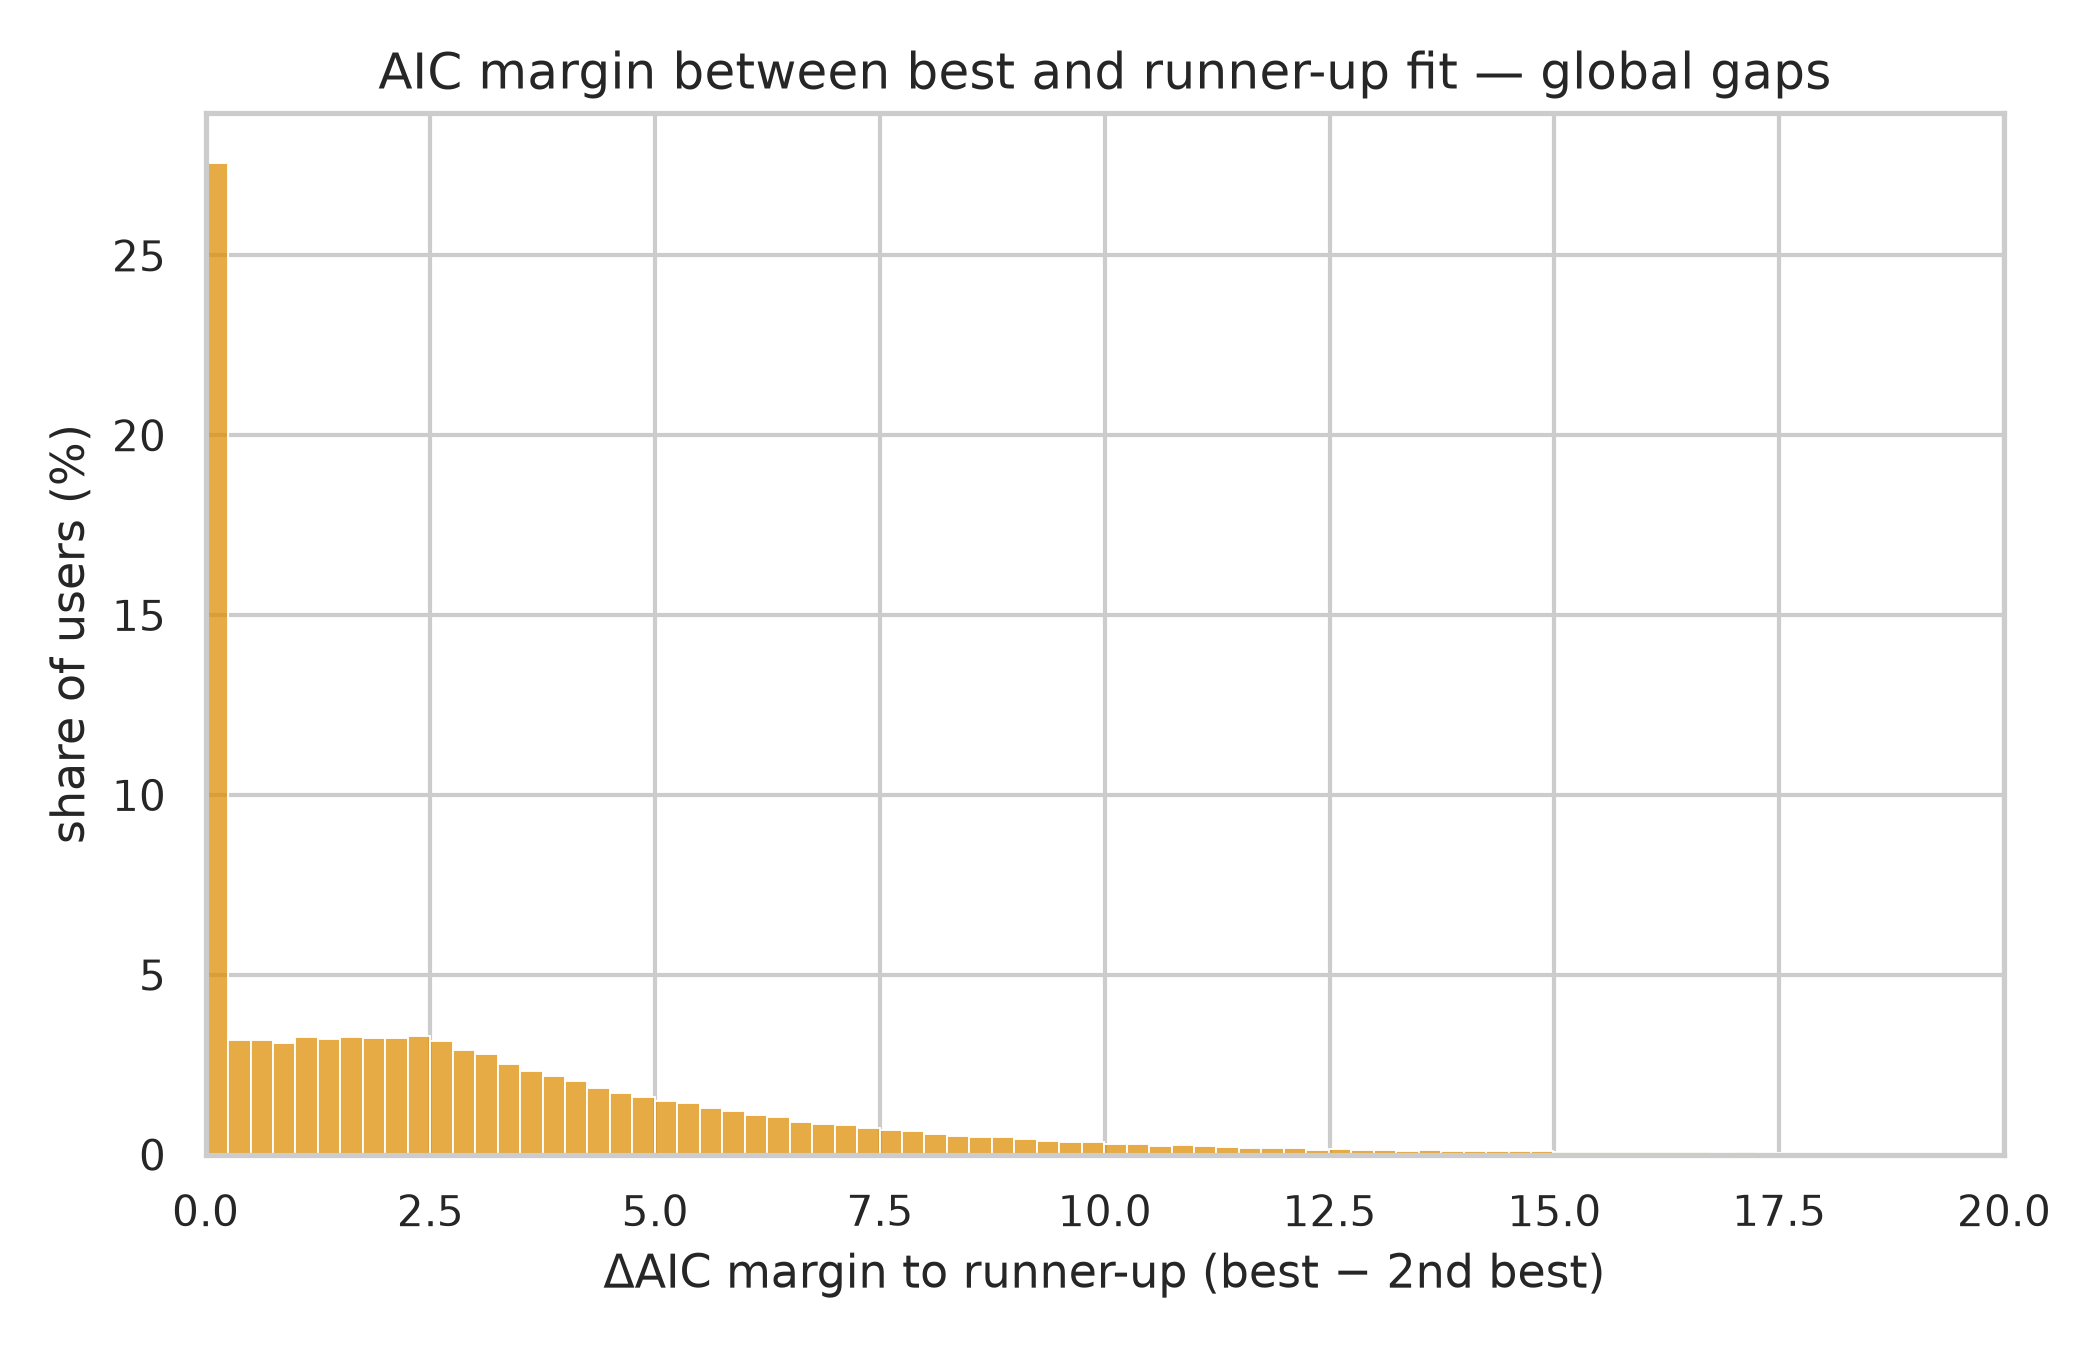
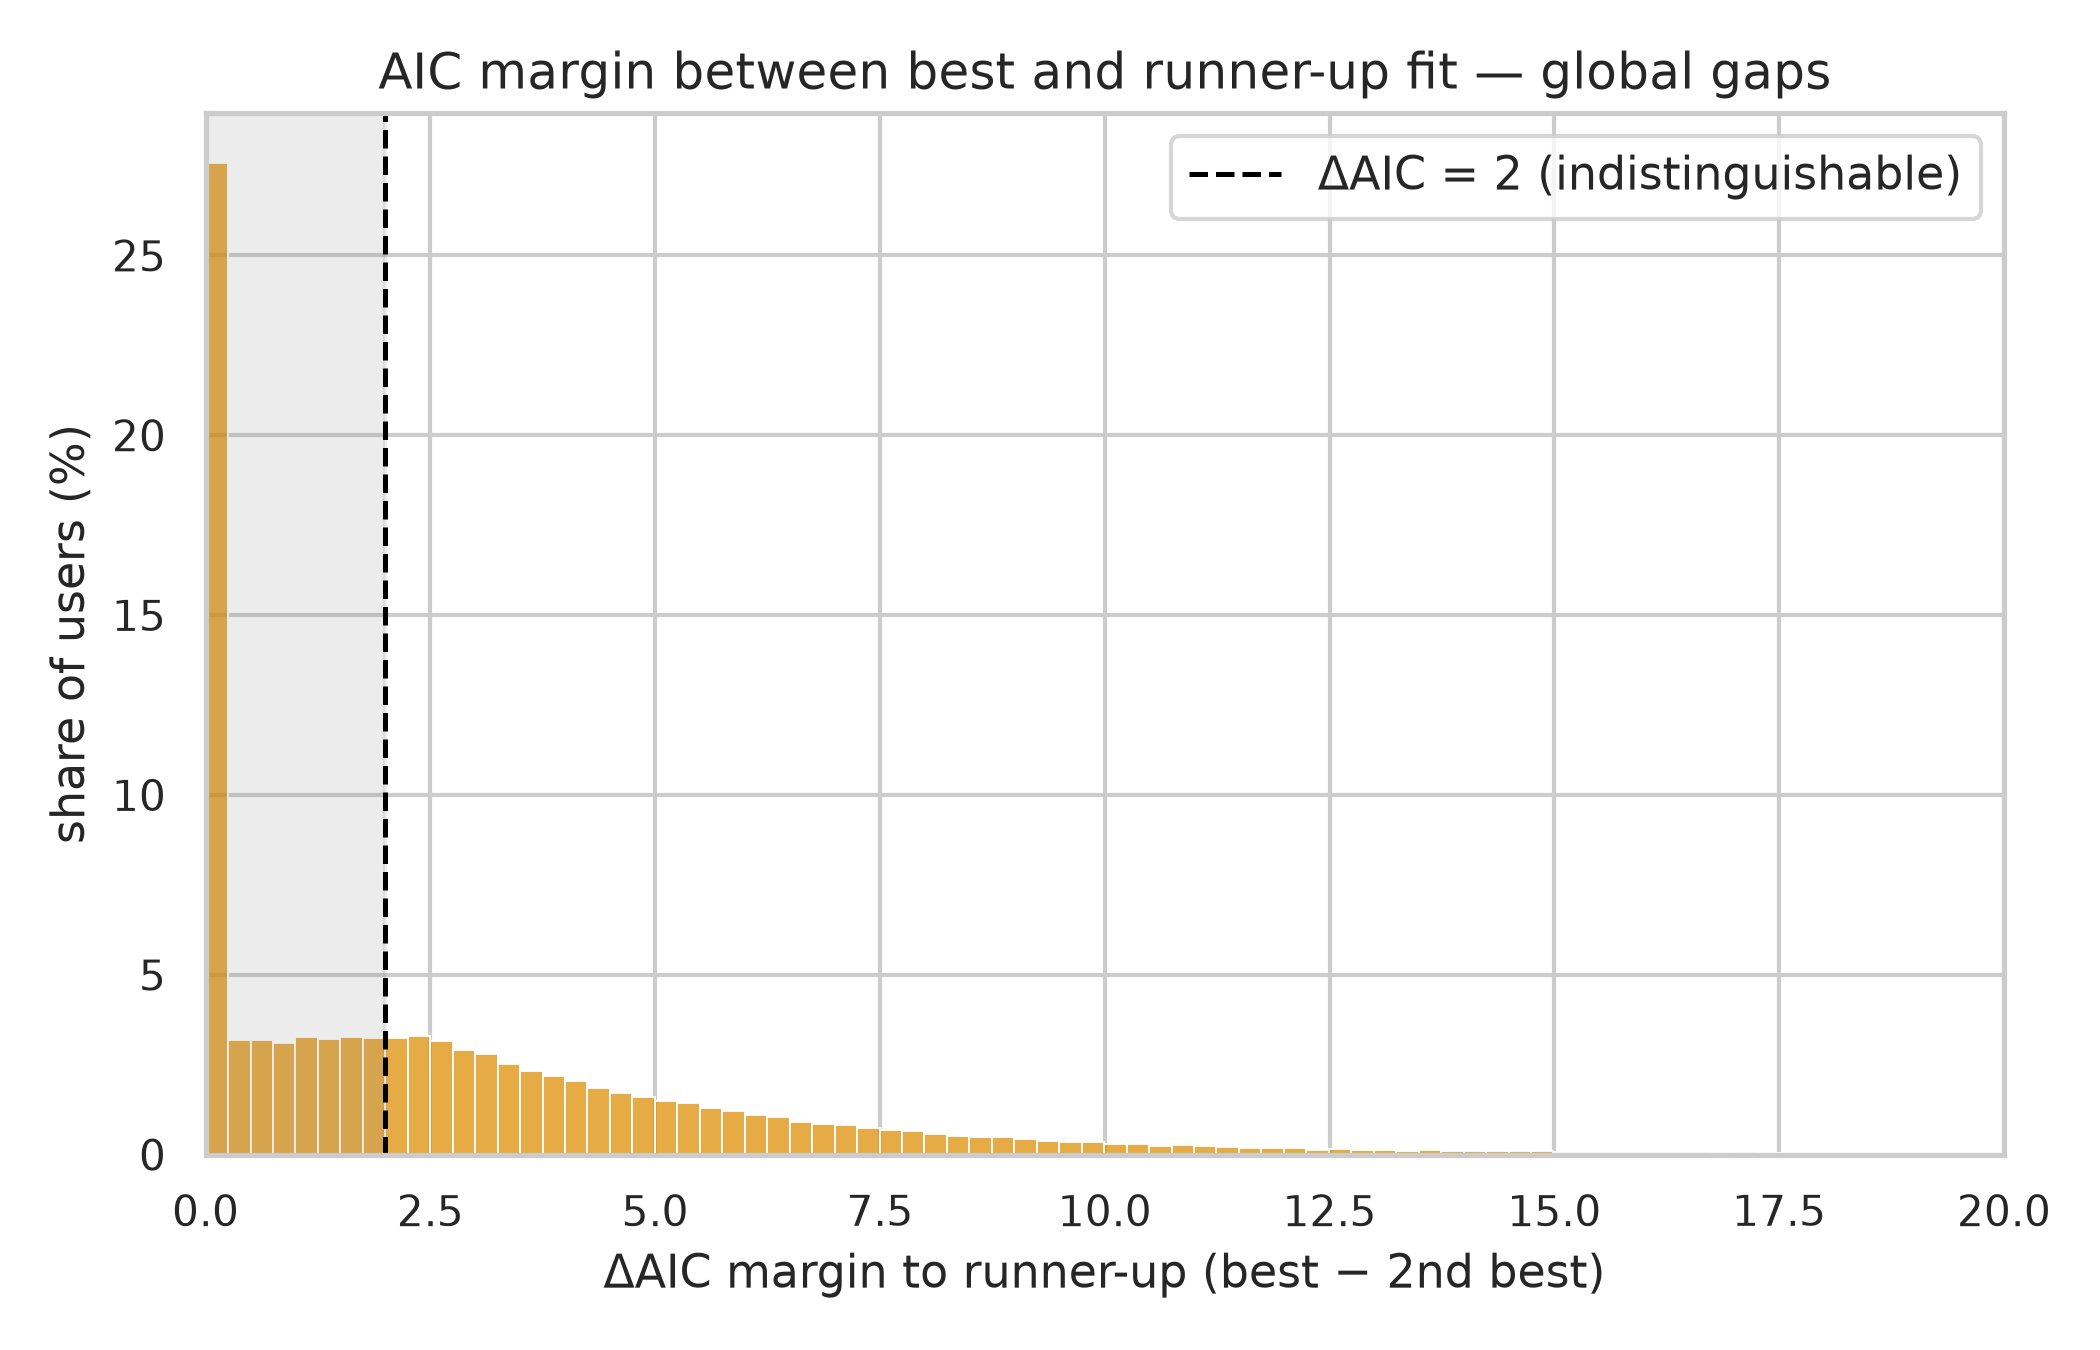
Mark ΔAIC < 2 indistinguishable region in margin histograms

Changed region(s): [[0.619, 0.0933, 0.9595, 0.1556], [0.5571, 0.0933, 0.5881, 0.1867]]

diff --git a/sessions/inter-post-creation/aic_margins.py b/sessions/inter-post-creation/aic_margins.py
@@ -77,6 +77,11 @@ def main():
         ax.set_xlabel("$\\Delta$AIC margin to runner-up (best $-$ 2nd best)")
         ax.set_ylabel("share of users (%)")
         ax.set_title(f"AIC margin between best and runner-up fit — {label}")
+        # margin < 2 = models effectively indistinguishable
+        ax.axvline(2, color="black", ls="--", lw=1.2,
+                   label="$\\Delta$AIC = 2 (indistinguishable)")
+        ax.axvspan(0, 2, color="gray", alpha=0.15)
+        ax.legend(frameon=True)
         fig.tight_layout()
         p = OUT / f"aic_margins_{'within' if col.endswith('within') else 'global'}.png"
         fig.savefig(p, dpi=300)
